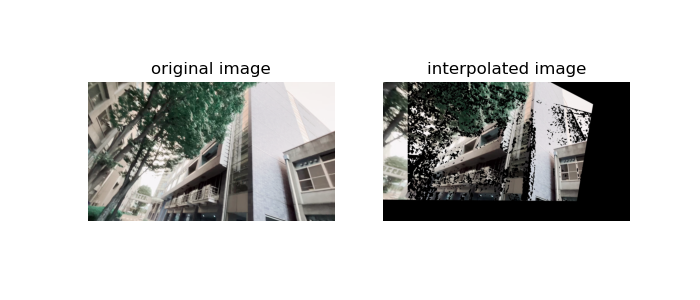
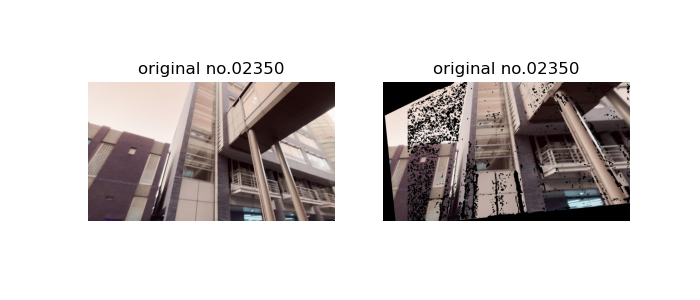
wip

Changed region(s): [[0.12, 0.21, 0.48, 0.75], [0.54, 0.21, 0.9, 0.75]]

diff --git a/final_report_SfM/Morphing_2.py b/final_report_SfM/Morphing_2.py
@@ -2,13 +2,33 @@ import glob
 import os
 import matplotlib.pyplot as plt
 import cv2
-
-
-
-
+import numpy as np
 
 os.chdir("final_report_SfM")
 current_dir = os.getcwd()
+
+def crt_results(path1,path2,title1="original image",title2="interpolated image",color=""):
+    fig=plt.figure(figsize=(7,3))
+    img1=cv2.imread(path1)
+    ax1=fig.add_subplot(1,2,1)
+    ax1.set_title(title1)
+    ax1.axis("off")
+    plt.imshow(img1)
+    if path2==None:
+        img2=np.zeros_like(img1)
+    else:
+        img2=cv2.imread(path2)
+    ax2=fig.add_subplot(1,2,2)
+    if color!="":
+        ax2.set_title(title2,color=color)
+    else:
+        ax2.set_title(title2)
+    ax2.axis("off")
+    plt.imshow(img2)
+    plt.savefig(current_dir+"/results/comparison_movie/test.png")
+    pass
+
+
 """
 """
 interpolated_images=sorted(glob.glob(current_dir+"/results/view_interpolation/*"))
@@ -23,34 +43,24 @@ for original_image in original_images:
     original_no=os.path.basename(original_image)[:-4]
     try:
         interpolated_no=interpolated_nos[0]
-        interpolated_image=interpolated_image[0]
+        interpolated_image=interpolated_images[0]
     except IndexError:
         print(original_no,"XXXXX","NO MATCH (interpolated empty)")
         break
     if original_no==interpolated_no:
         print(original_no,interpolated_no,"PERFECT MATCH")
+        crt_results(original_image,interpolated_image,title1=f"original no.{original_no}",title2=f"original no.{interpolated_no}")
         interpolated_nos=interpolated_nos[1:]
         interpolated_images=interpolated_images[1:]
     elif int(original_no)<int(interpolated_no):
+        crt_results(original_image,None,title1=f"original no.{original_no}",title2=f"interp. (failed) no.{interpolated_no}")
         print(original_no,"XXXXX","NO MATCH (INTERPOLATION FAILED)")
     elif int(original_no)>int(interpolated_no):
+        crt_results(original_image,interpolated_image,title1=f"original no.{original_no}",title2=f"interp. no.{interpolated_no}",color="red")
         print(original_no,interpolated_no,"INTERPOLATION MATCH")
         interpolated_nos=interpolated_nos[1:]
         interpolated_images=interpolated_images[1:]
     else:
         print("### ERROR ###")
 
-fig=plt.figure(figsize=(7,3))
-path1=current_dir+"/images/images3/00300.png"
-path2=current_dir+"/results/view_interpolation/00300_1-00.jpg"
-img1=cv2.imread(path1)
-ax1=fig.add_subplot(1,2,1)
-ax1.set_title("original image")
-ax1.axis("off")
-plt.imshow(img1)
-img2=cv2.imread(path2)
-ax2=fig.add_subplot(1,2,2)
-ax2.set_title("interpolated image")
-ax2.axis("off")
-plt.imshow(img2)
-plt.savefig(current_dir+"/results/comparison_movie/test.png")
+
